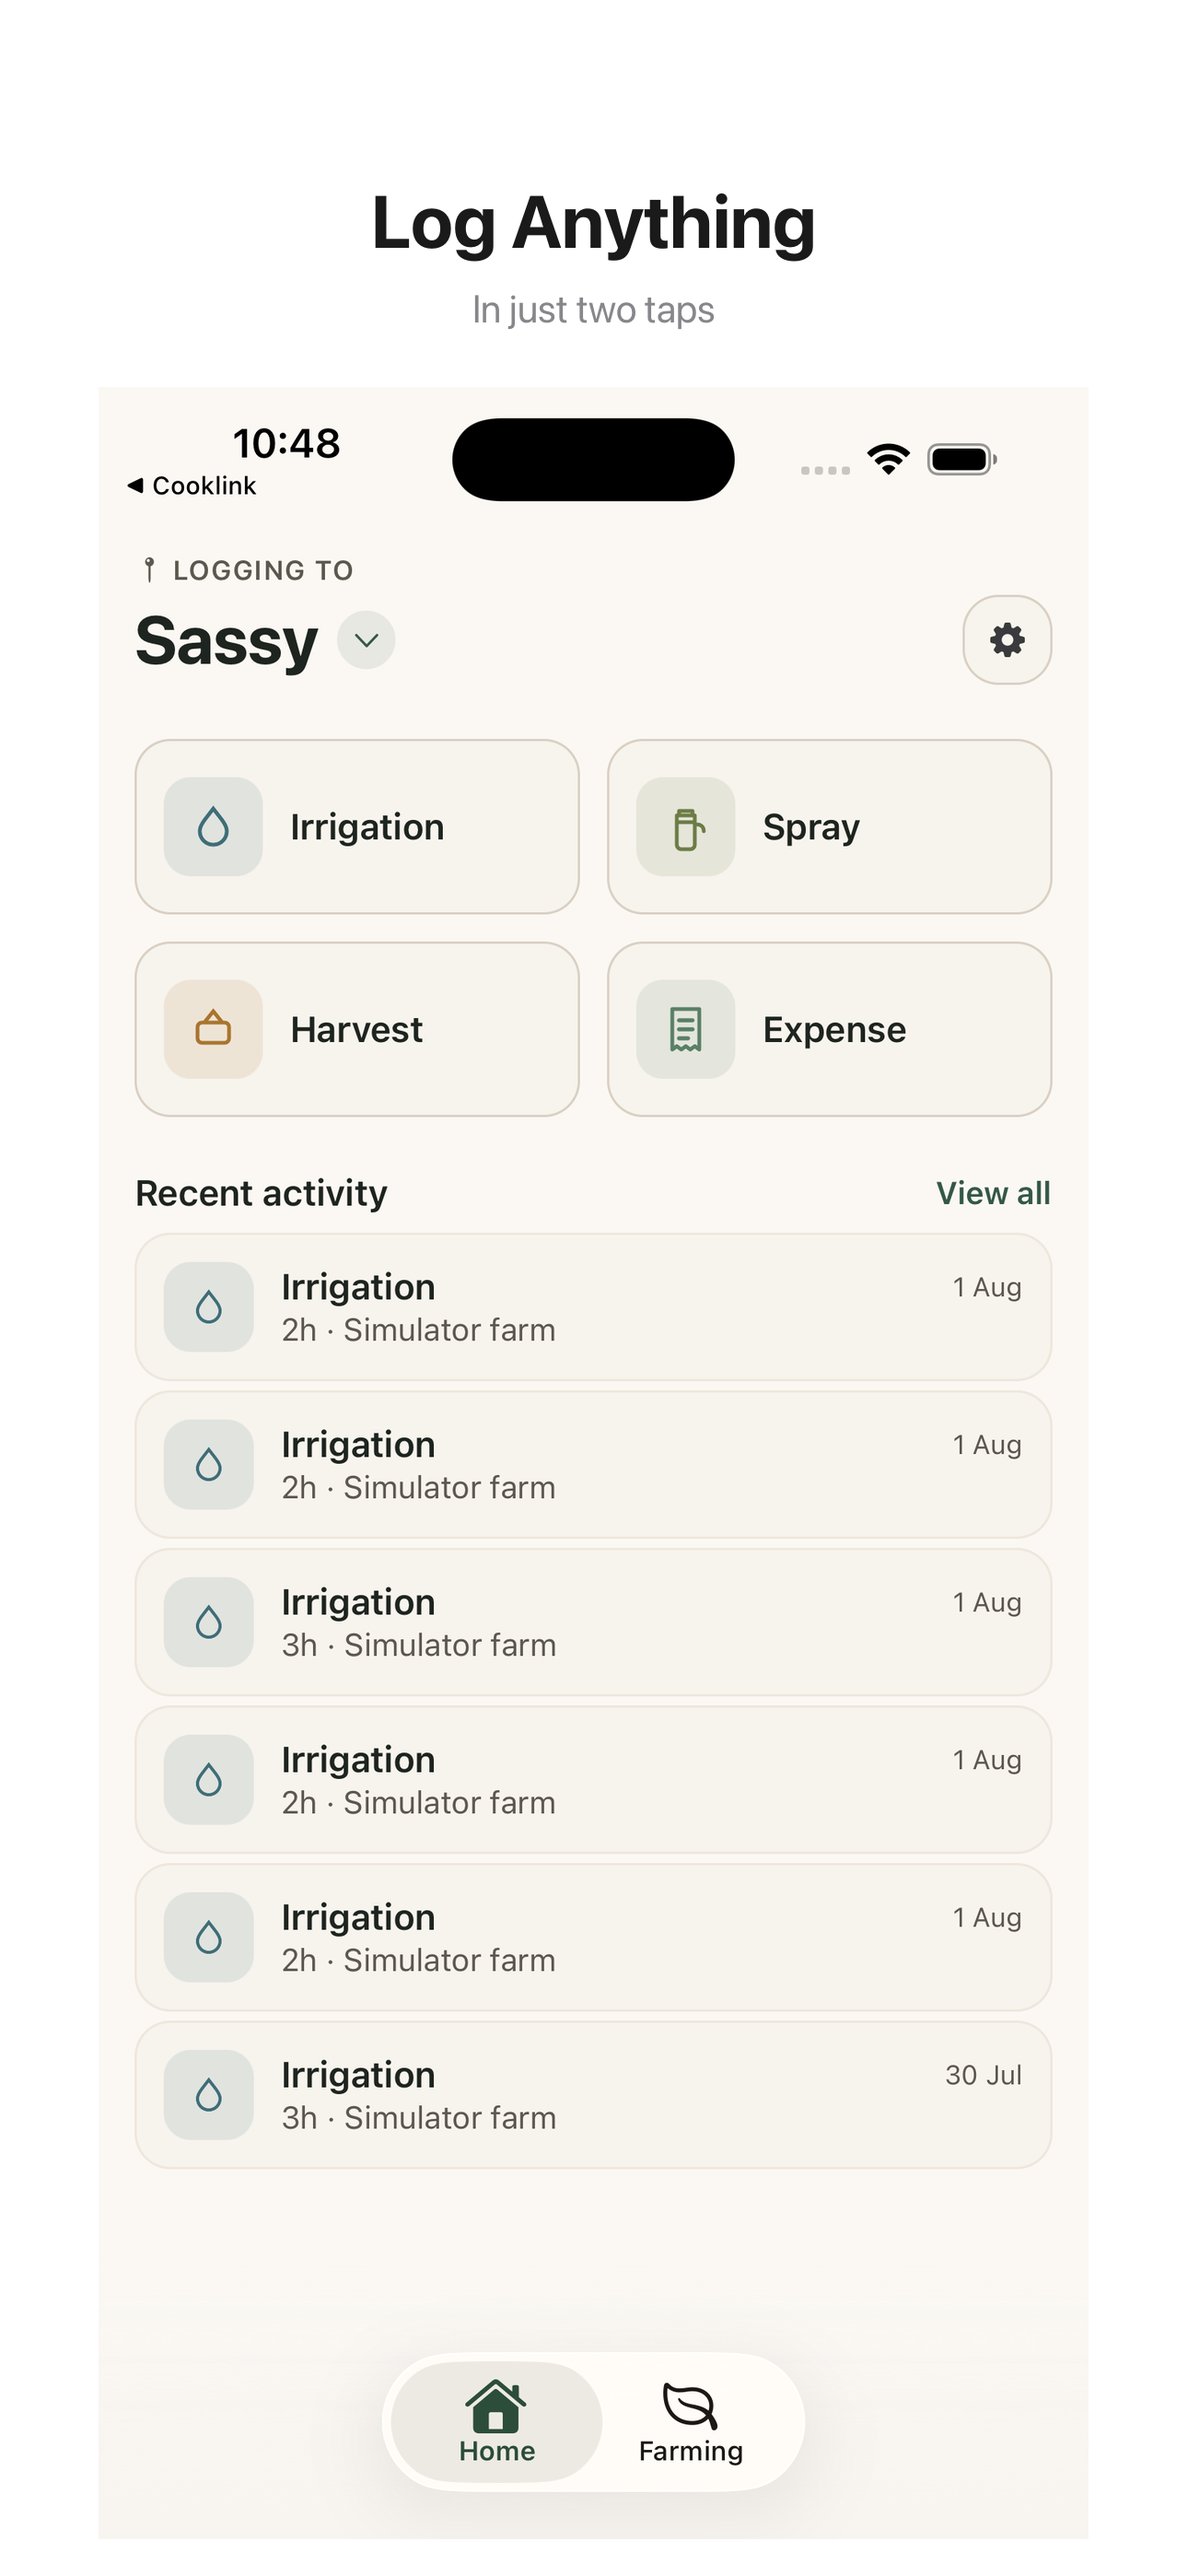
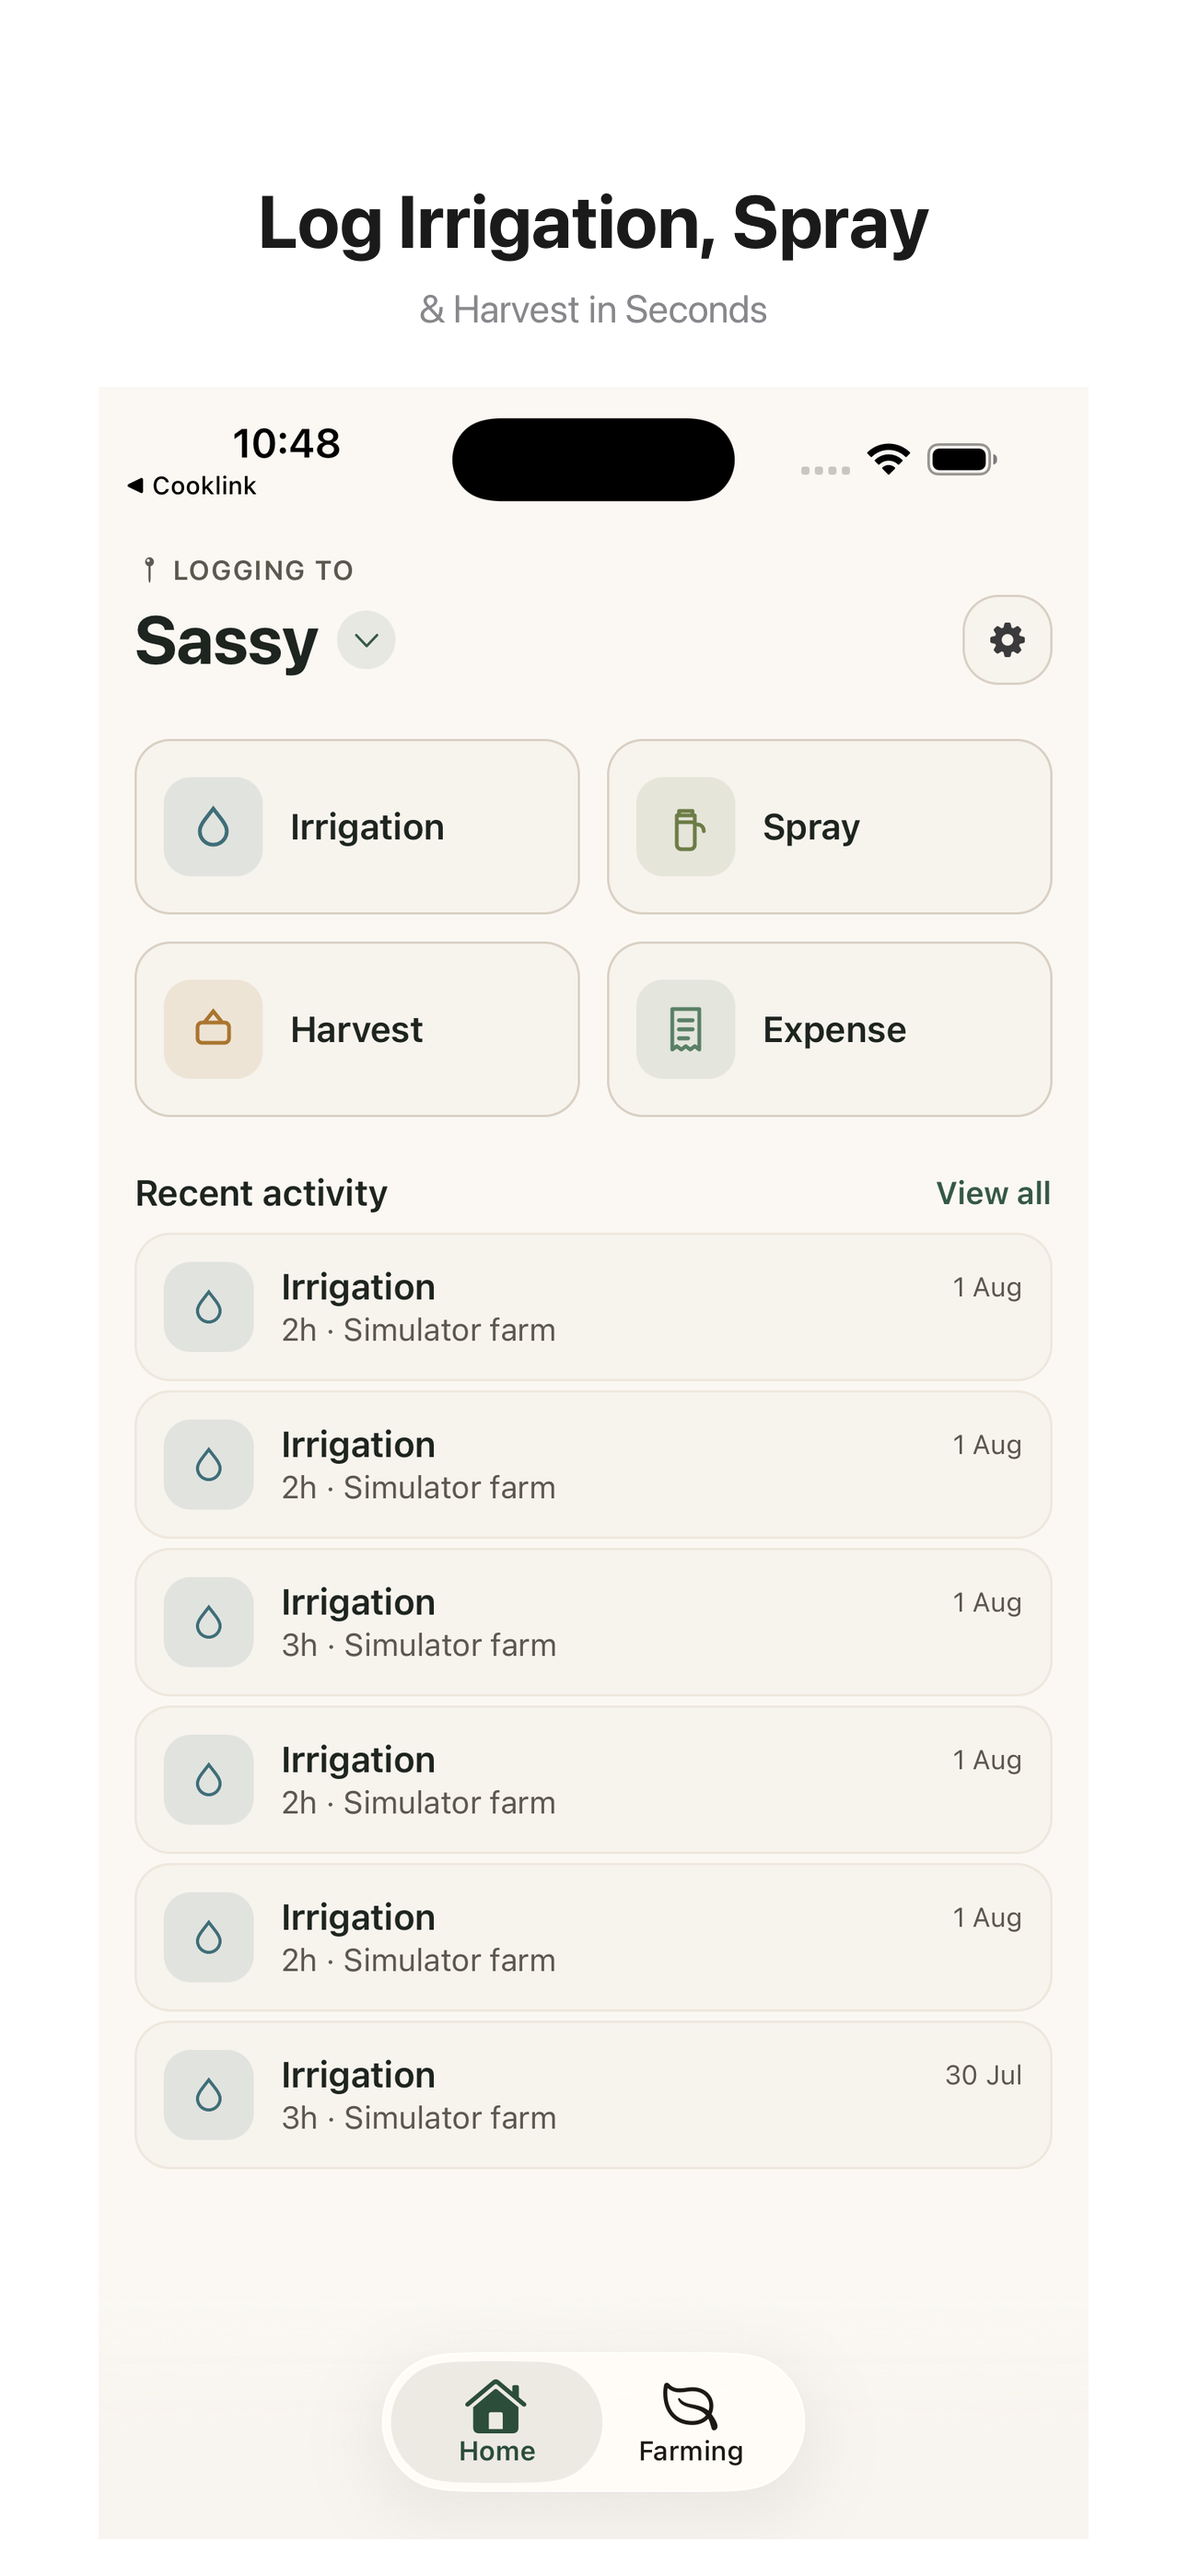
codex: address PR review feedback (#292)

Changed region(s): [[0.2171, 0.0622, 0.7752, 0.1245]]

diff --git a/store/screenshots/README.md b/store/screenshots/README.md
@@ -34,8 +34,8 @@ store/screenshots/
 
 | Device Class | Dimensions (px) | Status |
 |-------------|-----------------|--------|
-| iPhone 6.7" (15 Pro Max / 17 Pro Max) | 1290 x 2796 | Ready in `ios-6.7-1290x2796/` |
-| iPhone 6.5" (11 Pro Max) | 1284 x 2778 | Ready in `ios-6.5-1284x2778/` |
+| iPhone 6.7" (15 Pro Max) | 1290 x 2796 | Ready in `appstore-6.7-1290x2796/` |
+| iPhone 6.5" (11 Pro Max) | 1284 x 2778 | Ready in `appstore-6.5-1284x2778/` |
 | iPhone 5.5" (8 Plus) | 1242 x 2208 | Optional — not generated |
 | iPad Pro 12.9" | 2048 x 2732 | Generate if iPad app |
 
@@ -71,29 +71,21 @@ All captions follow the skill's rules:
 | "Reports & Analytics" | "Know Your Harvest, Revenue & Profit" |
 | "Quick Log Actions" | "Log Irrigation, Spray & Harvest in Seconds" |
 
-## How to Add Captions
+## Regenerate Captioned Assets
 
-These are raw app screenshots without text overlays. To add captions for the App Store:
+`compose.sh` adds the approved two-line captions and writes the final assets to
+`appstore-6.7-1290x2796/`, `appstore-6.5-1284x2778/`, and `googleplay/`.
+The raw simulator captures remain in `ios/` and should only be used as inputs to
+the composition step.
 
-### Option A: Overlay with ImageMagick
+Run the generator from the repository root:
+
 ```bash
-# Example: add caption to hero screenshot
-convert ios-6.7-1290x2796/01-farms-explore.png \
-  -gravity North -background "#1E241F" -splice 0x200 \
-  -gravity North -fill "#FBF8F3" -font Helvetica-Bold -pointsize 72 \
-  -annotate +0+60 "See Your Entire Vineyard at a Glance" \
-  ios-6.7-1290x2796/01-farms-explore-captioned.png
+bash store/screenshots/compose.sh
 ```
 
-### Option B: Use design tool (Figma / Canva)
-1. Create a 1290x2796 canvas
-2. Add a header band with the benefit-focused caption
-3. Place the screenshot below
-4. Export as PNG
-
-### Option C: Submit without captions
-The screenshots are clean enough to submit as-is — the app UI is self-explanatory.
-
+Do not add a second caption overlay to the generated `appstore-*` files; they
+already contain the approved marketing copy.
 ## Screenshots Not Yet Captured
 
 These additional screens would round out a full 8-10 screenshot set:
